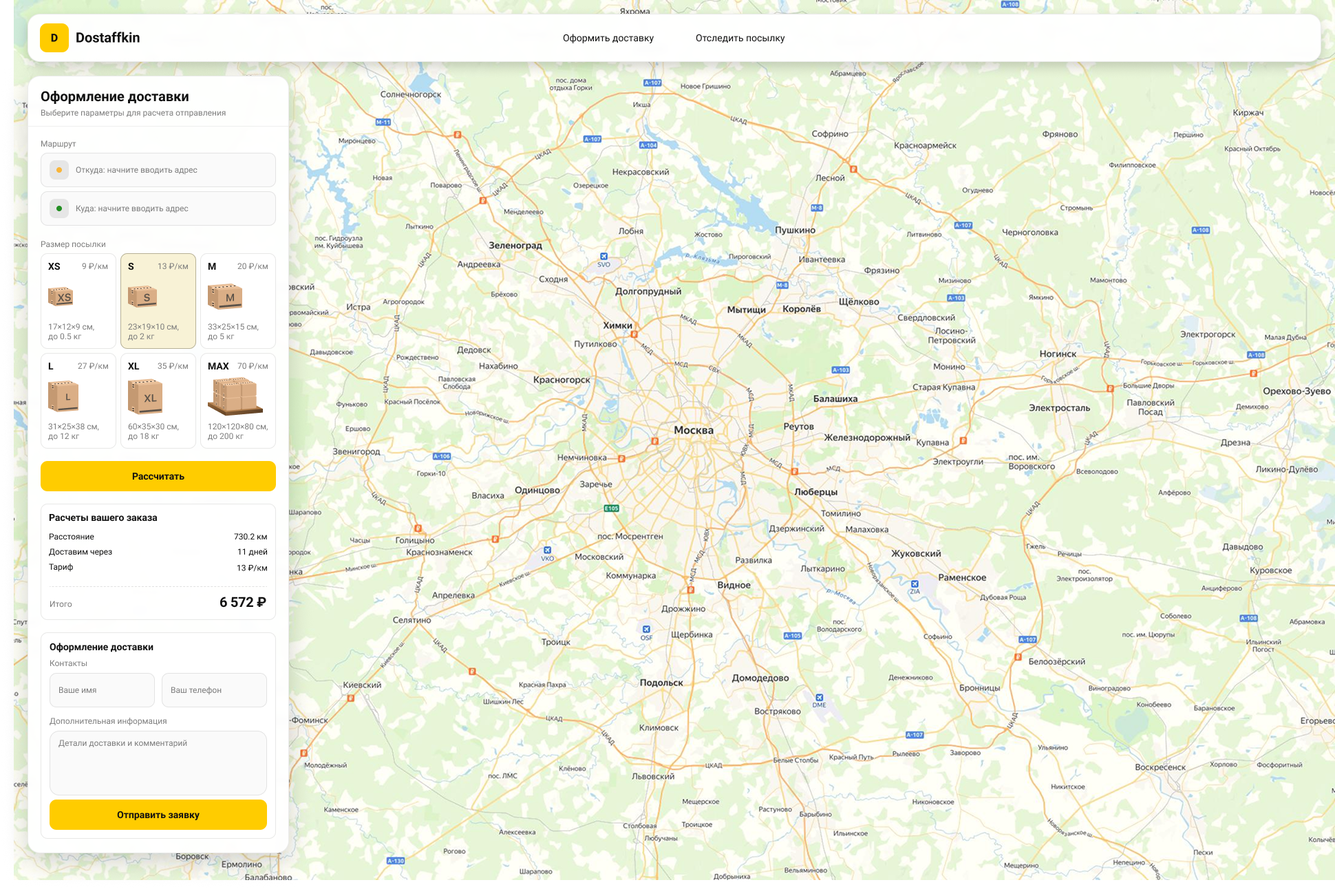
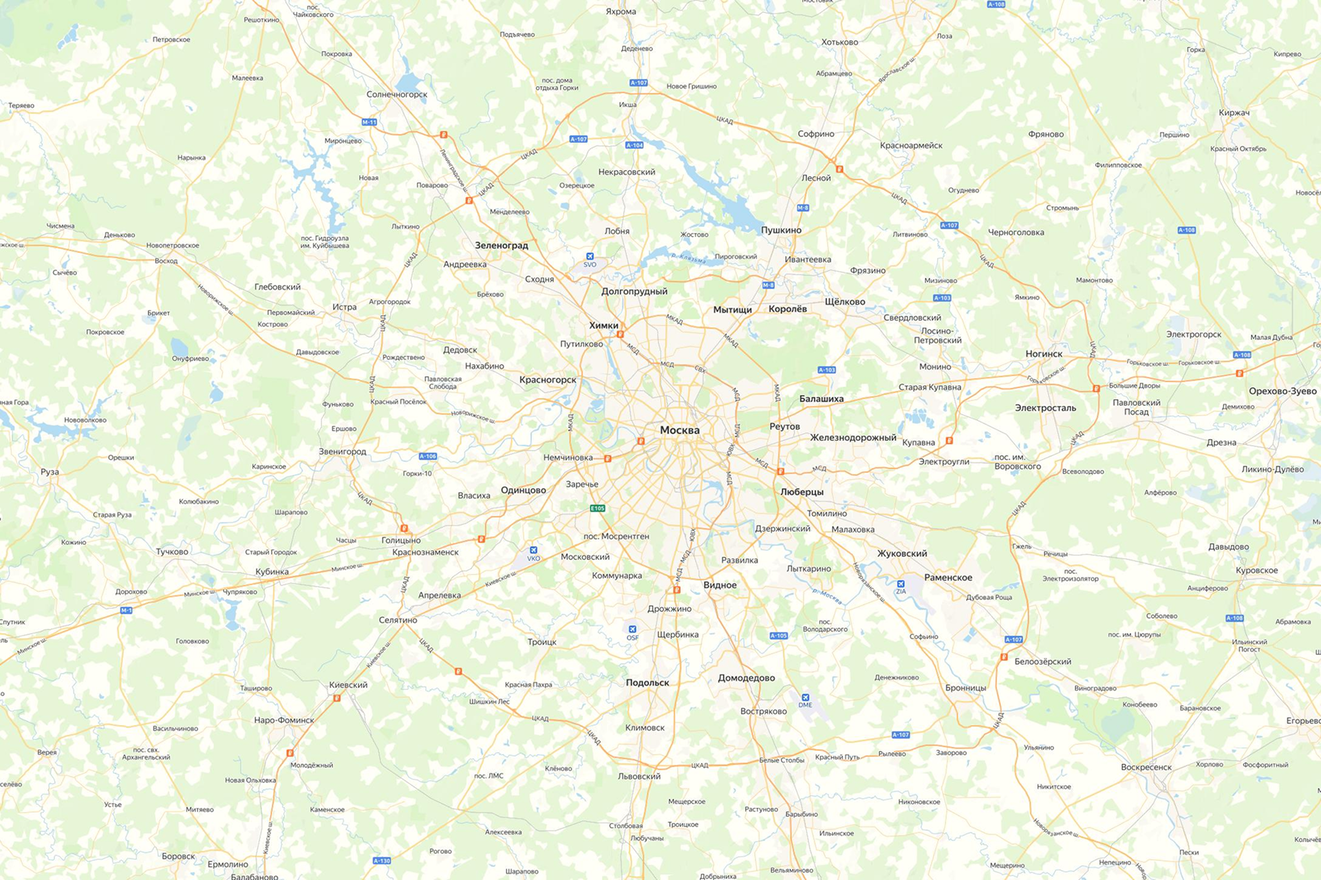
Изменено фоновое изображение на странице заказа и добавлены стили для полей ввода

diff --git a/styles/base.css b/styles/base.css
@@ -123,3 +123,73 @@ body {
 .button.button-white:hover {
   background: rgb(241 241 241);
 }
+
+.main-field {
+  display: flex;
+  align-items: center;
+  margin-top: 6px;
+  gap: 10px;
+  border: 1px solid #1111111A;
+  background: #FAFAFA;
+  border-radius: 10px;
+  padding: 10px 12px;
+  position: relative;
+  box-sizing: border-box;
+  height: 50px;
+}
+
+.main-field.textarea {
+  height: auto;
+}
+
+.main-pin {
+  width: 28px;
+  height: 28px;
+  border-radius: 10px;
+  background: rgba(17, 17, 17, 0.08);
+  display: grid;
+  place-items: center;
+  flex: 0 0 auto;
+  position: relative;
+}
+
+.main-pin::before {
+  content: "";
+  width: 8px;
+  height: 8px;
+  border-radius: 999px;
+  background: orange;
+  opacity: .75;
+  display: block;
+}
+
+.main-field:last-child .main-pin::before {
+  background: green;
+  opacity: .85;
+}
+
+input, textarea {
+  width: 100%;
+  border: 0;
+  outline: none;
+  background: transparent;
+  font-size: 14px;
+  color: #111111;
+  font-family: inherit;
+}
+
+textarea {
+  resize: vertical;
+  min-height: 72px;
+  padding: 2px 0;
+}
+
+input::placeholder, textarea::placeholder {
+  color: #7C7C7C;
+}
+
+.main-field:focus-within {
+  border-color: rgba(0, 0, 0, 0.20);
+  box-shadow: 0 0 0 4px rgba(255, 204, 0, 0.35);
+  background: rgba(255, 255, 255, 0.75);
+}
